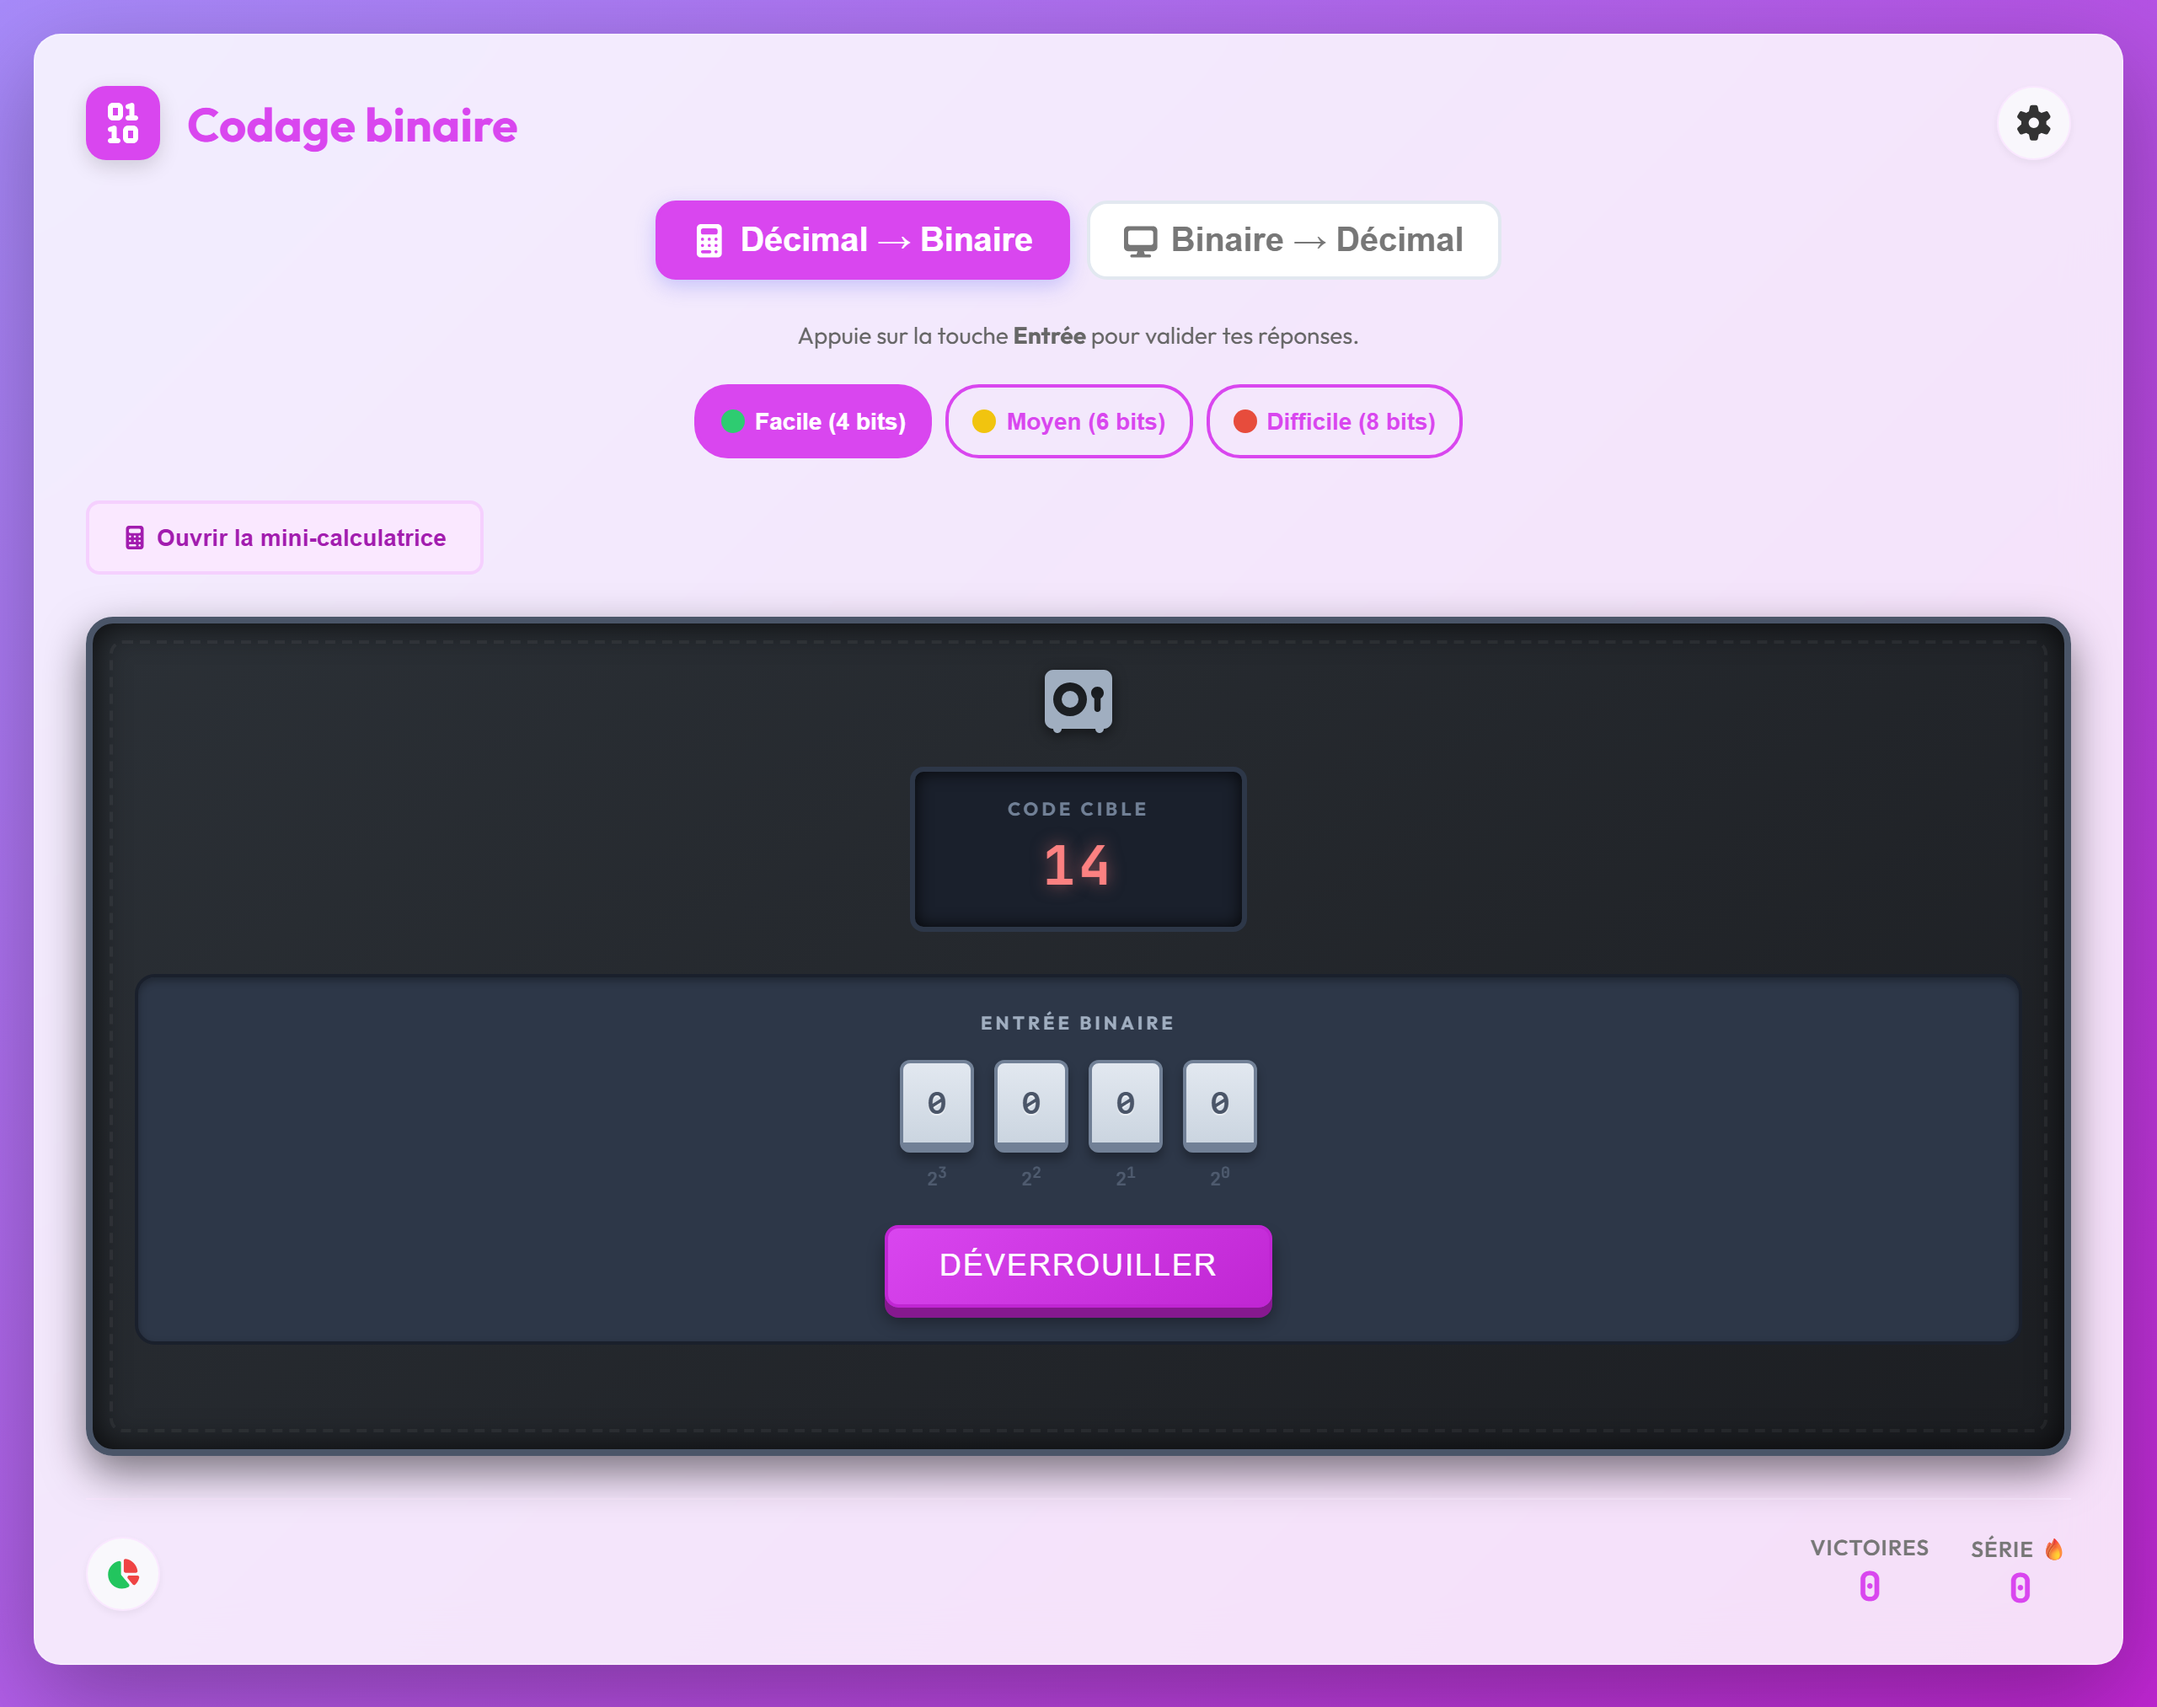
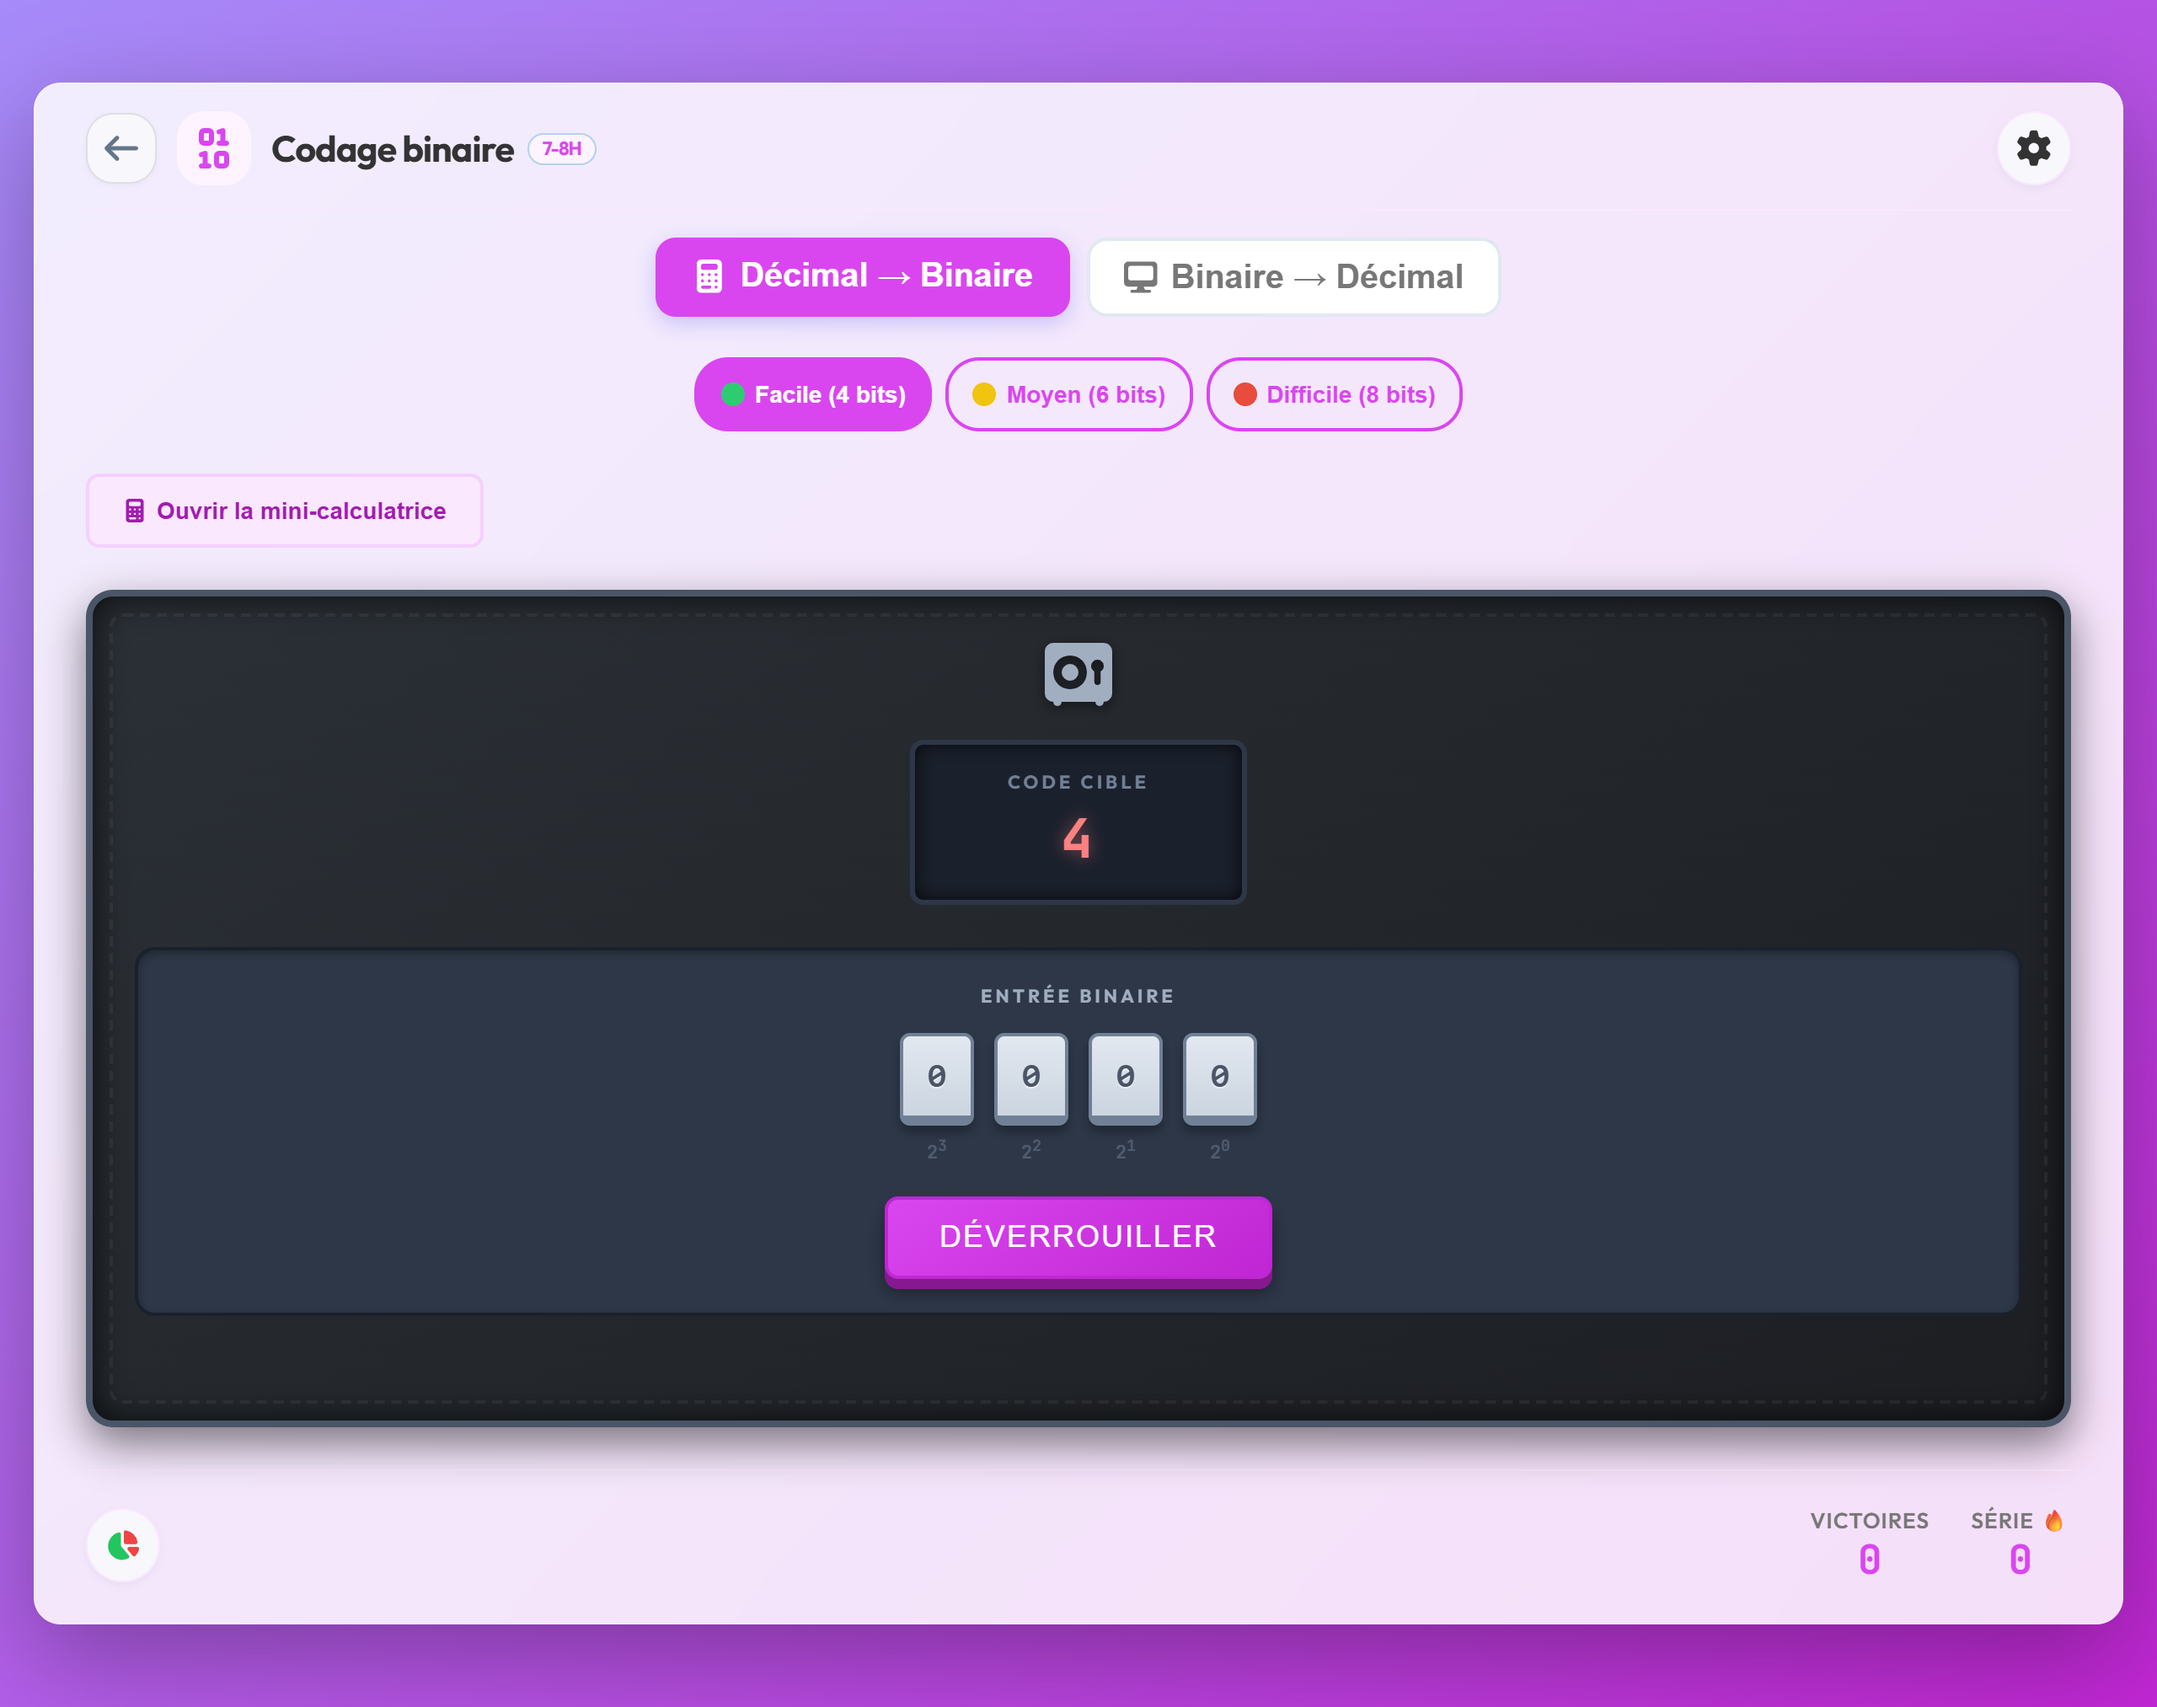
docs(screenshots): refresh portal and application screenshots with updated UI
- Update portal screenshot (index.png) showcasing complete 10-app grid, new Tape-Texte card, grey 1-2H badge on Jeu de la grue, and modern header
- Re-capture Tirage au sort (tirage.png) with single-line teacher header, actions, participant cells, and history badges
- Re-capture Générateur de barèmes (bareme.png) with unified teacher header, action controls, and back button
- Update student webapps (simulateur automate, binaire studio, mot de passe, codage, mots secrets, routage, bit de parité) with dedicated header back button [←] and clean layout
- Add automated Playwright runner in meta/scripts/capture-screenshots.js and npm run capture:screenshots script

Changed region(s): [[0.0, 0.2799, 1.0, 0.9951], [0.0, 0.0, 1.0, 0.1244], [0.2812, 0.0933, 0.6875, 0.2799]]

diff --git a/meta/scripts/capture-screenshots.js b/meta/scripts/capture-screenshots.js
@@ -1,0 +1,323 @@
+#!/usr/bin/env node
+/* SPDX-License-Identifier: AGPL-3.0-only
+ * Copyright (C) 2026 Vivian Epiney (AP-EdNum, HEP-VS) */
+/**
+ * Automated Screenshot Runner for Suite EdNum documentation
+ * Captures high-DPI (2x Retina) screenshots of portal and applications for README and webapp manifest.
+ */
+
+'use strict';
+
+const http = require('node:http');
+const fs = require('node:fs');
+const path = require('node:path');
+const { chromium } = require('playwright');
+
+const rootDir = path.resolve(__dirname, '..', '..');
+const outDir = path.join(rootDir, 'meta', 'screenshots');
+
+const MIME = {
+  '.html': 'text/html; charset=utf-8',
+  '.css': 'text/css; charset=utf-8',
+  '.js': 'application/javascript; charset=utf-8',
+  '.json': 'application/json; charset=utf-8',
+  '.svg': 'image/svg+xml',
+  '.png': 'image/png',
+  '.jpg': 'image/jpeg',
+  '.webp': 'image/webp',
+  '.woff': 'font/woff',
+  '.woff2': 'font/woff2',
+  '.ttf': 'font/ttf',
+  '.mp3': 'audio/mpeg',
+  '.wav': 'audio/wav',
+};
+
+function startServer(port = 8125) {
+  return new Promise((resolve) => {
+    const server = http.createServer((req, res) => {
+      let pathname = req.url.split('?')[0];
+      let filePath = path.join(rootDir, pathname);
+      if (req.url === '/' || req.url.startsWith('/?')) filePath = path.join(rootDir, 'index.html');
+      if (fs.existsSync(filePath) && fs.statSync(filePath).isDirectory()) {
+        filePath = path.join(filePath, 'index.html');
+      }
+      if (fs.existsSync(filePath) && fs.statSync(filePath).isFile()) {
+        const ext = path.extname(filePath).toLowerCase();
+        res.writeHead(200, { 'Content-Type': MIME[ext] || 'application/octet-stream' });
+        fs.createReadStream(filePath).pipe(res);
+      } else {
+        res.writeHead(404, { 'Content-Type': 'text/plain' });
+        res.end('Not found: ' + pathname);
+      }
+    });
+    server.listen(port, '127.0.0.1', () => resolve(server));
+  });
+}
+
+async function prepPage(page) {
+  await page.evaluate(() => {
+    localStorage.clear();
+    localStorage.setItem('theme', 'light');
+    document.body.classList.remove('dark');
+    document.documentElement.classList.remove('dark');
+
+    // Hide footer in screenshots
+    const footer = document.querySelector('footer');
+    if (footer) footer.style.display = 'none';
+
+    // Disable CSS animations & transitions for crisp framing
+    const style = document.createElement('style');
+    style.id = 'disable-animations-style';
+    style.textContent = `
+      *, *::before, *::after {
+        animation-duration: 0s !important;
+        animation-delay: 0s !important;
+        transition-duration: 0s !important;
+        transition-delay: 0s !important;
+      }
+      .app-shell, .container, body > header, main {
+        animation: none !important;
+        transform: none !important;
+      }
+    `;
+    document.head.appendChild(style);
+  });
+}
+
+async function captureIndex(browser, port) {
+  const page = await browser.newPage({
+    viewport: { width: 1280, height: 1625 },
+    deviceScaleFactor: 2
+  });
+  await page.goto(`http://127.0.0.1:${port}/index.html`, { waitUntil: 'networkidle' });
+  await prepPage(page);
+  await page.waitForTimeout(400);
+
+  const outPath = path.join(outDir, 'index.png');
+  await page.screenshot({ path: outPath });
+  console.log('✓ Rendered meta/screenshots/index.png (2560x3250)');
+  await page.close();
+}
+
+async function captureTirage(browser, port) {
+  const page = await browser.newPage({
+    viewport: { width: 1280, height: 927 },
+    deviceScaleFactor: 2
+  });
+
+  await page.addInitScript(() => {
+    localStorage.clear();
+    localStorage.setItem('theme', 'light');
+    const state = {
+      mode: 'names',
+      allParticipants: ['Arthur', 'Camille', 'Emma', 'Lucas', 'Léa', 'Maxime', 'Noah', 'Sarah', 'Vivian'],
+      availableParticipants: ['Arthur', 'Camille', 'Léa', 'Maxime', 'Noah', 'Sarah'],
+      drawnParticipants: ['Lucas', 'Emma', 'Vivian'],
+      absentParticipants: [],
+      drawHistory: ['Lucas', 'Emma', 'Vivian']
+    };
+    localStorage.setItem('tirage_sort_v3', JSON.stringify(state));
+  });
+
+  await page.goto(`http://127.0.0.1:${port}/webapps/teacher/tirage.html`, { waitUntil: 'networkidle' });
+  await prepPage(page);
+
+  await page.evaluate(() => {
+    const drawnNumber = document.getElementById('drawnNumber');
+    if (drawnNumber) drawnNumber.textContent = 'Vivian';
+    if (window.fa && typeof window.fa.createIcons === 'function') {
+      window.fa.createIcons();
+    }
+  });
+
+  await page.waitForTimeout(300);
+
+  const outPath = path.join(outDir, 'tirage.png');
+  await page.screenshot({ path: outPath });
+  console.log('✓ Rendered meta/screenshots/tirage.png (2560x1854)');
+  await page.close();
+}
+
+async function captureBareme(browser, port) {
+  const page = await browser.newPage({
+    viewport: { width: 1148, height: 950 },
+    deviceScaleFactor: 2
+  });
+  await page.goto(`http://127.0.0.1:${port}/webapps/teacher/bareme.html`, { waitUntil: 'networkidle' });
+  await prepPage(page);
+  await page.waitForTimeout(300);
+
+  const outPath = path.join(outDir, 'bareme.png');
+  await page.screenshot({ path: outPath });
+  console.log('✓ Rendered meta/screenshots/bareme.png (2296x1900)');
+  await page.close();
+}
+
+async function capturePasswordGen(browser, port) {
+  const page = await browser.newPage({
+    viewport: { width: 1048, height: 891 },
+    deviceScaleFactor: 2
+  });
+  await page.goto(`http://127.0.0.1:${port}/webapps/generateur_mot_de_passe.html`, { waitUntil: 'networkidle' });
+  await prepPage(page);
+  await page.waitForTimeout(300);
+
+  const outPath = path.join(outDir, 'generateur_mot_de_passe.png');
+  await page.screenshot({ path: outPath });
+  console.log('✓ Rendered meta/screenshots/generateur_mot_de_passe.png (2096x1782)');
+  await page.close();
+}
+
+async function captureAutomate(browser, port) {
+  // Standard
+  {
+    const page = await browser.newPage({
+      viewport: { width: 1280, height: 867 },
+      deviceScaleFactor: 2
+    });
+    await page.goto(`http://127.0.0.1:${port}/webapps/simulateur_automate.html`, { waitUntil: 'networkidle' });
+    await prepPage(page);
+    await page.waitForTimeout(400);
+
+    const outPath = path.join(outDir, 'simulateur_automate.png');
+    await page.screenshot({ path: outPath });
+    console.log('✓ Rendered meta/screenshots/simulateur_automate.png (2560x1734)');
+    await page.close();
+  }
+
+  // Widescreen
+  {
+    const page = await browser.newPage({
+      viewport: { width: 1456, height: 845 },
+      deviceScaleFactor: 2
+    });
+    await page.goto(`http://127.0.0.1:${port}/webapps/simulateur_automate.html`, { waitUntil: 'networkidle' });
+    await prepPage(page);
+    await page.waitForTimeout(400);
+
+    const outPath = path.join(outDir, 'simulateur_automate_widescreen.png');
+    await page.screenshot({ path: outPath });
+    console.log('✓ Rendered meta/screenshots/simulateur_automate_widescreen.png (2912x1690)');
+    await page.close();
+  }
+
+  // Mobile
+  {
+    const page = await browser.newPage({
+      viewport: { width: 384, height: 824 },
+      deviceScaleFactor: 2,
+      isMobile: true
+    });
+    await page.goto(`http://127.0.0.1:${port}/webapps/simulateur_automate.html`, { waitUntil: 'networkidle' });
+    await prepPage(page);
+    await page.waitForTimeout(400);
+
+    const outPath = path.join(outDir, 'simulateur_automate_mobile.png');
+    await page.screenshot({ path: outPath });
+    console.log('✓ Rendered meta/screenshots/simulateur_automate_mobile.png (768x1648)');
+    await page.close();
+  }
+}
+
+async function captureBinaireStudio(browser, port) {
+  const page = await browser.newPage({
+    viewport: { width: 1280, height: 996 },
+    deviceScaleFactor: 2
+  });
+  await page.goto(`http://127.0.0.1:${port}/webapps/binaire_studio.html`, { waitUntil: 'networkidle' });
+  await prepPage(page);
+  await page.waitForTimeout(300);
+
+  const outPath = path.join(outDir, 'binaire_studio.png');
+  await page.screenshot({ path: outPath });
+  console.log('✓ Rendered meta/screenshots/binaire_studio.png (2560x1992)');
+  await page.close();
+}
+
+async function captureBinaireCodage(browser, port) {
+  const page = await browser.newPage({
+    viewport: { width: 1280, height: 1013 },
+    deviceScaleFactor: 2
+  });
+  await page.goto(`http://127.0.0.1:${port}/webapps/binaire_codage.html`, { waitUntil: 'networkidle' });
+  await prepPage(page);
+  await page.waitForTimeout(300);
+
+  const outPath = path.join(outDir, 'binaire_codage.png');
+  await page.screenshot({ path: outPath });
+  console.log('✓ Rendered meta/screenshots/binaire_codage.png (2560x2026)');
+  await page.close();
+}
+
+async function captureBinaireMessage(browser, port) {
+  const page = await browser.newPage({
+    viewport: { width: 1280, height: 750 },
+    deviceScaleFactor: 2
+  });
+  await page.goto(`http://127.0.0.1:${port}/webapps/binaire_message.html`, { waitUntil: 'networkidle' });
+  await prepPage(page);
+  await page.waitForTimeout(300);
+
+  const outPath = path.join(outDir, 'binaire_message.png');
+  await page.screenshot({ path: outPath });
+  console.log('✓ Rendered meta/screenshots/binaire_message.png (2560x1500)');
+  await page.close();
+}
+
+async function captureRoutageReseau(browser, port) {
+  const page = await browser.newPage({
+    viewport: { width: 1280, height: 1105 },
+    deviceScaleFactor: 2
+  });
+  await page.goto(`http://127.0.0.1:${port}/webapps/routage_reseau.html`, { waitUntil: 'networkidle' });
+  await prepPage(page);
+  await page.waitForTimeout(300);
+
+  const outPath = path.join(outDir, 'routage_reseau.png');
+  await page.screenshot({ path: outPath });
+  console.log('✓ Rendered meta/screenshots/routage_reseau.png (2560x2210)');
+  await page.close();
+}
+
+async function captureBitDeParite(browser, port) {
+  const page = await browser.newPage({
+    viewport: { width: 1280, height: 1092 },
+    deviceScaleFactor: 2
+  });
+  await page.goto(`http://127.0.0.1:${port}/webapps/bit_de_parite.html`, { waitUntil: 'networkidle' });
+  await prepPage(page);
+  await page.waitForTimeout(300);
+
+  const outPath = path.join(outDir, 'bit_de_parite.png');
+  await page.screenshot({ path: outPath });
+  console.log('✓ Rendered meta/screenshots/bit_de_parite.png (2560x2184)');
+  await page.close();
+}
+
+async function main() {
+  const port = 8125;
+  const server = await startServer(port);
+  console.log(`Screenshot server running on http://127.0.0.1:${port}`);
+
+  const browser = await chromium.launch({ channel: 'msedge', headless: true });
+
+  await captureIndex(browser, port);
+  await captureTirage(browser, port);
+  await captureBareme(browser, port);
+  await capturePasswordGen(browser, port);
+  await captureAutomate(browser, port);
+  await captureBinaireStudio(browser, port);
+  await captureBinaireCodage(browser, port);
+  await captureBinaireMessage(browser, port);
+  await captureRoutageReseau(browser, port);
+  await captureBitDeParite(browser, port);
+
+  await browser.close();
+  server.close();
+  console.log('🎉 All 12 documentation screenshots successfully updated in meta/screenshots/');
+}
+
+main().catch(err => {
+  console.error(err);
+  process.exit(1);
+});
